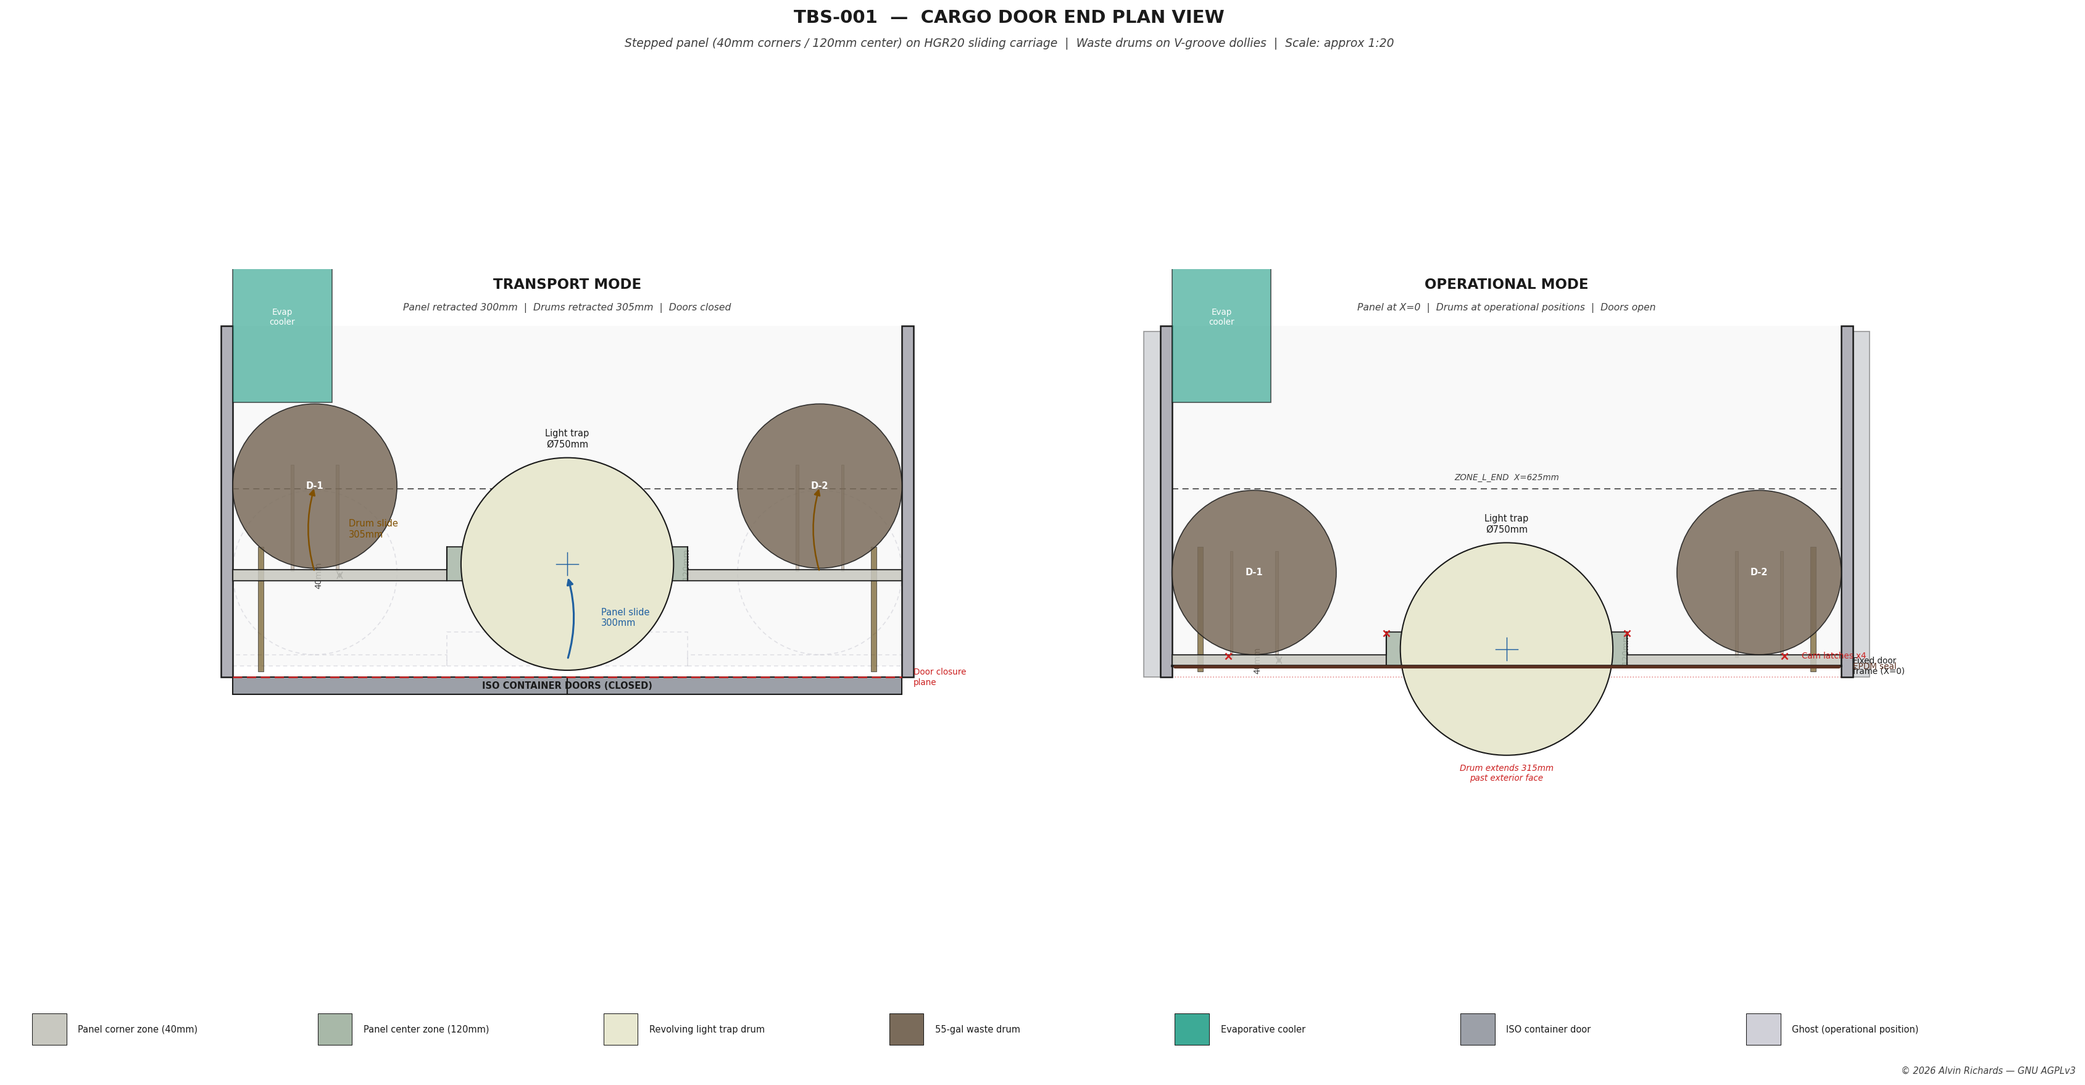
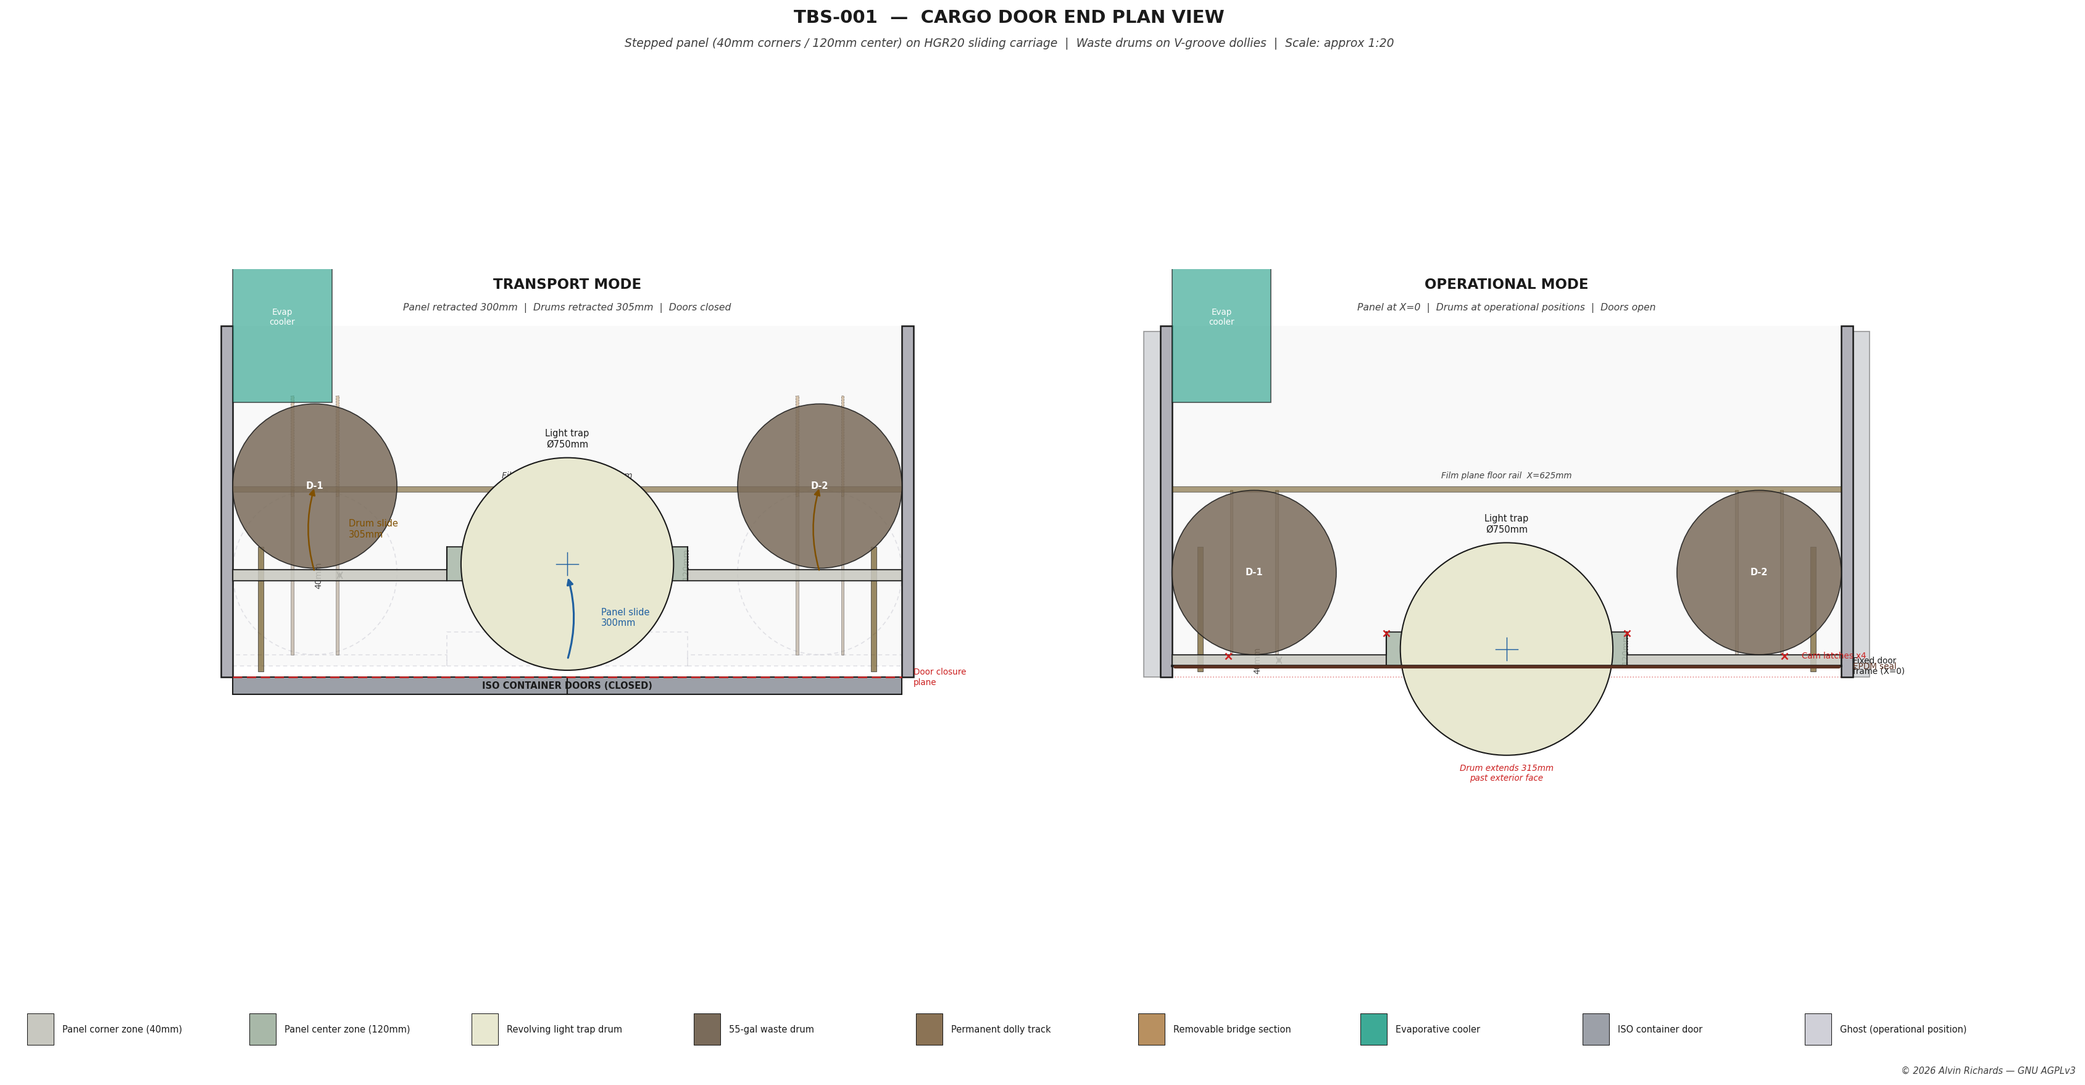
Split dolly tracks into permanent + removable bridge sections
Waste drum dolly tracks now end at X=620mm (5mm inside ZONE_L_END).
Removable bridge sections (355mm, X=600-955mm) span over the film
plane floor rail at X=625mm during mode conversion only. The film
plane carriage must be retracted to Yd<=100mm before bridges are
installed (79mm clearance to nearest dolly track at Yd=210mm).
Four bridge pieces total, drop-in with M8 locating dowel pins.

Updated operating manual procedures (steps 2/6 for packing, 5/7
for setup), equipment layout report, shopping list (+$108 for
bridge tracks/risers/pins), and all affected diagrams. Transport
and operational plan views now show permanent vs bridge track
sections distinctly. Line-of-sight still clear.

diff --git a/generate_assembly_overview.py b/generate_assembly_overview.py
@@ -47,6 +47,7 @@ from tbs_constants import (
     PANEL_CORNER_T, PANEL_CENTER_T,
     PANEL_CORNER_YD_L, PANEL_CORNER_YD_R, PANEL_CENTER_W,
     PANEL_SLIDE, DRUM_SLIDE,
+    PERM_TRACK_END, BRIDGE_TRACK_START, BRIDGE_TRACK_END,
     RAIL_X_L, RAIL_X_R, RAIL_SPAN,
     FAN_A_H, FAN_B_H, FAN_DIAM, DUCT_HEIGHT,
     DIAGRAMS_DIR, SVG_DIR, svg_path,
@@ -915,12 +916,14 @@ def draw_container_walls(ax):
     # Container interior floor area
     ax.add_patch(mpatches.Rectangle((0, 0), C_WID, PLAN_X_MAX,
                  facecolor=C_INTERIOR, edgecolor="none", alpha=0.5, zorder=0))
-    # Zone boundary at ZONE_L_END (X=625)
-    ax.plot([0, C_WID], [ZONE_L_END, ZONE_L_END], color=C_DIM, lw=0.8,
-            ls="--", dashes=(6, 4), zorder=2)
-    ax.text(C_WID / 2, ZONE_L_END + 25, f"ZONE_L_END  X={ZONE_L_END}mm",
+    # Film plane floor rail at X=RAIL_X_L (= ZONE_L_END = 625mm)
+    ax.add_patch(mpatches.Rectangle((0, RAIL_X_L - 10), C_WID, 20,
+                 facecolor=C_RAIL3, edgecolor=C_OUT, linewidth=0.5,
+                 alpha=0.5, zorder=4))
+    ax.text(C_WID / 2, ZONE_L_END + 30,
+            f"Film plane floor rail  X={ZONE_L_END}mm",
             ha="center", va="bottom", fontsize=FS_SM - 1, color=C_DIM,
-            style="italic", zorder=3)
+            style="italic", zorder=5)
 
 
 def draw_stepped_panel(ax, panel_x_outer, alpha=0.85):
@@ -989,15 +992,28 @@ def draw_hgr20_rails(ax):
             alpha=0.6, zorder=4))
 
 
-def draw_vgroove_tracks(ax, drum_x_left):
-    """Draw V-groove roller tracks for waste drums."""
-    track_len = DRUM_SLIDE + 50
+C_BRIDGE  = "#B89060"    # bridge section color (lighter than permanent)
+
+def draw_vgroove_tracks(ax, drum_x_left, show_bridges=False):
+    """Draw V-groove roller tracks for waste drums.
+    Permanent sections: X=PANEL_CORNER_T to PERM_TRACK_END.
+    Bridge sections (removable): X=BRIDGE_TRACK_START to BRIDGE_TRACK_END.
+    """
     for yd_c in [DRUM_EQ_R, C_WID - DRUM_EQ_R]:
         for offset in [-80, 80]:  # two parallel tracks per drum
+            # Permanent section
             ax.add_patch(mpatches.Rectangle(
-                (yd_c + offset - 5, drum_x_left - 10), 10, track_len + 20,
+                (yd_c + offset - 5, PANEL_CORNER_T), 10,
+                PERM_TRACK_END - PANEL_CORNER_T,
                 facecolor=C_TRACK, edgecolor=C_OUT, linewidth=0.4,
                 alpha=0.4, zorder=3))
+            # Bridge section (removable)
+            if show_bridges:
+                ax.add_patch(mpatches.Rectangle(
+                    (yd_c + offset - 5, BRIDGE_TRACK_START), 10,
+                    BRIDGE_TRACK_END - BRIDGE_TRACK_START,
+                    facecolor=C_BRIDGE, edgecolor=C_OUT, linewidth=0.4,
+                    alpha=0.5, zorder=3, linestyle="--"))
 
 
 def draw_container_doors(ax, closed=True):
@@ -1048,7 +1064,7 @@ plan_setup(ax_tr, "TRANSPORT MODE",
 draw_container_walls(ax_tr)
 draw_container_doors(ax_tr, closed=True)
 draw_hgr20_rails(ax_tr)
-draw_vgroove_tracks(ax_tr, TR_DRUM_X)
+draw_vgroove_tracks(ax_tr, TR_DRUM_X, show_bridges=True)
 draw_evap_cooler(ax_tr)
 
 # Ghost: operational positions (dashed outlines)
@@ -1187,6 +1203,8 @@ legend_items3 = [
     (C_PANEL_C,  "Panel center zone (120mm)"),
     (C_DRUM_LT3, "Revolving light trap drum"),
     (C_WASTE,    "55-gal waste drum"),
+    (C_TRACK,    "Permanent dolly track"),
+    (C_BRIDGE,   "Removable bridge section"),
     (C_EVAP,     "Evaporative cooler"),
     (C_CONT_DR,  "ISO container door"),
     (C_GHOST,    "Ghost (operational position)"),

diff --git a/generate_hingepanel_diagram.py b/generate_hingepanel_diagram.py
@@ -972,7 +972,8 @@ def sheet4():
                                PANEL_CORNER_YD_L, PANEL_CORNER_YD_R, PANEL_SLIDE,
                                DRUM_SLIDE, DRUM_EQ_D, DRUM_EQ_R, DRUM_LZ_CX,
                                DRUM_LZ_YD_LO, DRUM_LZ_YD_HI, DRUM_FZ_YD_LO,
-                               DRUM_FZ_YD_HI, ZONE_L_END, WALL_T as C_WALL_T)
+                               DRUM_FZ_YD_HI, ZONE_L_END, WALL_T as C_WALL_T,
+                               PERM_TRACK_END, BRIDGE_TRACK_START, BRIDGE_TRACK_END)
 
     # ── Layout constants ─────────────────────────────────────────────────────
     # Plan view:  horizontal = Yd (container width, 0 → C_WID)
@@ -1149,15 +1150,20 @@ def sheet4():
         ax.plot([yd_pos, yd_pos], [RAIL_X_START, RAIL_X_END],
                 color="#404040", lw=3.0, zorder=3, alpha=0.5)
     # ── V-groove track indicators (paired, per drum) ─────────────────────────
-    TRACK_X_START = OP_DRUM_CX - DRUM_EQ_R - 30
-    TRACK_X_END = TRACK_X_START + SLIDE_D + DRUM_EQ_D + 60
+    # Permanent section and removable bridge section shown separately
     for yd_lo, yd_hi in [(DRUM_LZ_YD_LO, DRUM_LZ_YD_HI),
                           (DRUM_FZ_YD_LO, DRUM_FZ_YD_HI)]:
         yd_c = (yd_lo + yd_hi) / 2
         for yd_off in [-150, 150]:
+            # Permanent track (solid)
             ax.plot([yd_c + yd_off, yd_c + yd_off],
-                    [TRACK_X_START, TRACK_X_END],
+                    [PANEL_CORNER_T, PERM_TRACK_END],
                     color="#2060A0", lw=2.5, zorder=3, alpha=0.35)
+            # Bridge section (dashed)
+            ax.plot([yd_c + yd_off, yd_c + yd_off],
+                    [BRIDGE_TRACK_START, BRIDGE_TRACK_END],
+                    color="#B89060", lw=2.5, zorder=3, alpha=0.45,
+                    ls="--", dashes=(6, 3))
 
     # ── Carriage beam (dashed rectangle, full height at X=0) ─────────────────
     BEAM_W = 60

diff --git a/tbs_constants.py b/tbs_constants.py
@@ -106,6 +106,18 @@ PANEL_SLIDE       = 300   # panel slide travel for transport (mm)
 DRUM_SLIDE        = 305   # waste drum slide travel for transport (mm)
 DRUM_DOLLY_H      = 30    # dolly track riser height (mm) — clears HGR20 floor rail
 
+# Dolly tracks are split into permanent + removable bridge sections.
+# Permanent tracks: X=PANEL_CORNER_T to X=PERM_TRACK_END (within left end zone).
+# Bridge sections: removable, installed only during mode conversion. Span over
+# the film plane floor rail at X=RAIL_X_L with 10mm clearance on 30mm risers.
+# The film plane carriage must be retracted to Yd≤100mm before bridges are
+# installed — clears carriage blocks (nearest dolly track at Yd≈210mm).
+PERM_TRACK_END    = 620   # permanent track right end X (mm) — 5mm inside ZONE_L_END
+BRIDGE_TRACK_START = 600  # bridge section left end X (mm) — 20mm overlap for alignment
+BRIDGE_TRACK_END  = 955   # bridge section right end X (mm) — 30mm past drum transport edge
+BRIDGE_TRACK_LEN  = BRIDGE_TRACK_END - BRIDGE_TRACK_START  # = 355mm
+BRIDGE_COUNT      = 4     # 2 tracks per drum × 2 drums
+
 # ── Left end zone (X = 0–625 mm, shadow-free at all depths) ──────────────────
 DRUM_CX    = 0       # light trap drum center X (mm) [unchanged]
 DRUM_D     = 750     # revolving drum diameter (mm)

diff --git a/light-trap-selection.md b/light-trap-selection.md
@@ -11,7 +11,7 @@
 
 The cargo door end of TBS-001 is sealed by a stepped hinged panel (2,362mm wide × 2,388mm tall, 50×50mm RHS steel frame, 18mm ply skins). The panel has a stepped profile: 40mm thick at the corner zones (Yd=0–756mm and Yd=1,606–2,362mm) and 120mm thick at the center zone (Yd=756–1,606mm) where the revolving light trap drum is permanently mounted. The panel swings 180° outward to clear the full door opening for loading IBC totes and equipment. When closed it is light-sealed at the perimeter by a 20mm EPDM compression gasket against a fixed welded door frame at X=0.
 
-The panel's hinge line mounts to a vertical carriage beam (60×60×3mm SHS) riding on HGR20 linear rails at floor and ceiling level with 300mm of X-direction travel. For transport, the waste drums slide inward 305mm on V-groove roller dollies, then the panel slides inward 300mm — clearing the container doors for closure. Single-person operation, 15–20 minutes per mode conversion. See [Equipment Layout Report](equipment-layout-report.md) §6.2 for full sliding carriage specification.
+The panel's hinge line mounts to a vertical carriage beam (60×60×3mm SHS) riding on HGR20 linear rails at floor and ceiling level with 300mm of X-direction travel. For transport, the waste drums slide inward 305mm on V-groove roller dollies (using removable bridge track sections that span the film plane floor rail), then the panel slides inward 300mm — clearing the container doors for closure. Single-person operation, 15–20 minutes per mode conversion. See [Equipment Layout Report](equipment-layout-report.md) §6.1 for dolly track specification and §6.2 for sliding carriage specification.
 
 Personnel access during operation is via a revolving light trap drum built into the panel. Operators can enter or exit at any time without opening the full panel or admitting daylight.
 
@@ -203,4 +203,4 @@ Custom fabrication saves $1,550–$3,050 over commercial alternatives while prov
 - **Panel latches (×4 Southco C2-33 cam compression latches) are mounted on the interior face of the panel.** This is a deliberate safety design: if the revolving drum jams and prevents normal egress, an operator inside the container can release all four latches independently from the inside and push the panel open outward. The panel swings 180° on its left-edge hinges, clearing all interior equipment. Latches appear as hidden (dashed) features in the exterior elevation drawing (Sheet 1).
 - **Stepped panel construction:** The panel has three thickness zones — 40mm at corners (18mm ply + 4mm steel plate + 18mm ply) and 120mm at center (18mm ply + 84mm RHS frame + 18mm ply). The step transitions occur at Yd=756mm and Yd=1,606mm. The 120mm center zone houses the drum; the 40mm corner zones are flush with the waste drum dolly positions.
 - **Sliding carriage:** The panel's hinge line mounts to a vertical carriage beam (60×60×3mm SHS, 2,400mm tall) riding on HGR20 linear rails at floor and ceiling level. Travel: 300mm in the X direction, locked by Destaco 207-U toggle clamps at both operational and transport positions. A fixed welded door frame (50×50×3mm RHS) at X=0 provides the EPDM seal landing — the sliding mechanism is transparent to the seal.
-- **Transport mode conversion** (single person, 15–20 minutes): release cam latches → swing panel open → slide waste drums inward 305mm → swing panel closed → slide panel inward 300mm → lock → close container doors. See [Equipment Layout Report](equipment-layout-report.md) §6 for full specification.
+- **Transport mode conversion** (single person, 15–20 minutes): retract film plane carriage → install bridge track sections → release cam latches → swing panel open → slide waste drums inward 305mm → remove bridge sections → swing panel closed → slide panel inward 300mm → lock → close container doors. See [Equipment Layout Report](equipment-layout-report.md) §6 for full specification.

diff --git a/operating-manual.md b/operating-manual.md
@@ -343,16 +343,20 @@ If shore charger is connected, leave it running overnight to top up the battery 
 
 The stepped hinged panel rides on a sliding carriage (HGR20 linear rails, 300mm travel). The waste drums sit on V-groove roller dollies (305mm travel). Both must slide inward before the container doors can close.
 
-1. Stow all interior items. Retract film plane carriage to Y=100mm.
-2. Release all 4 Southco cam latches. Swing the panel open 180° outward.
-3. Unlash waste drums (remove 2 ratchet straps per drum).
-4. Slide each drum inward: release spring plunger pin → push dolly 305mm (~11N force) → pin engages transport hole.
-5. Swing panel closed (do not latch).
-6. Release 2 Destaco toggle clamps at operational position.
-7. Push panel inward 300mm on HGR20 rails. Carriage contacts transport end stops.
-8. Engage 2 Destaco toggle clamps at transport position.
-9. Close and latch standard ISO container cargo doors.
-10. Relash drums for transport (ratchet straps to dolly D-rings).
+The dolly tracks are split into two sections: permanent tracks (X=40–620mm, within the left end zone) and removable bridge sections (355mm long) that span over the film plane floor rail at X=625mm. The bridges are installed only during mode conversion — they must be removed before operating the film plane.
+
+1. Stow all interior items. Retract film plane carriage to Yd=100mm. **Confirm carriage is parked** — the bridge sections cannot be installed with the carriage in the drum track zone.
+2. Install 4 bridge track sections (2 per drum): drop each bridge onto the permanent track end, engage the 2 locating dowel pins per bridge. Confirm bridges are seated and level.
+3. Release all 4 Southco cam latches. Swing the panel open 180° outward.
+4. Unlash waste drums (remove 2 ratchet straps per drum).
+5. Slide each drum inward: release spring plunger pin → push dolly 305mm (~11N force) → pin engages transport hole. Drums cross the film plane rail on the bridge sections.
+6. Remove 4 bridge track sections. Stow inside container (e.g. behind IBC column).
+7. Swing panel closed (do not latch).
+8. Release 2 Destaco toggle clamps at operational position.
+9. Push panel inward 300mm on HGR20 rails. Carriage contacts transport end stops.
+10. Engage 2 Destaco toggle clamps at transport position.
+11. Close and latch standard ISO container cargo doors.
+12. Relash drums for transport (ratchet straps to dolly D-rings).
 
 ### 5.6 Operational Mode Conversion (Setting Up)
 
@@ -362,10 +366,12 @@ The stepped hinged panel rides on a sliding carriage (HGR20 linear rails, 300mm 
 2. Release 2 Destaco toggle clamps at transport position.
 3. Pull panel outward 300mm. Engage 2 Destaco toggle clamps at operational position.
 4. Swing panel open 180°.
-5. Unlash waste drums. Slide each drum outward: release pin → push dolly 305mm → pin engages operational hole.
-6. Lash drums in operational position (ratchet straps to dolly D-rings).
-7. Swing panel closed. Engage all 4 Southco cam latches.
-8. Perform dark-adaptation check (Phase 0.3 step 4).
+5. Install 4 bridge track sections (2 per drum): engage locating dowel pins.
+6. Unlash waste drums. Slide each drum outward: release pin → push dolly 305mm → pin engages operational hole.
+7. Remove 4 bridge track sections. Stow inside container.
+8. Lash drums in operational position (ratchet straps to dolly D-rings).
+9. Swing panel closed. Engage all 4 Southco cam latches.
+10. Perform dark-adaptation check (Phase 0.3 step 4).
 
 ---
 

diff --git a/master-shopping-list.md b/master-shopping-list.md
@@ -22,12 +22,12 @@ Items are grouped by build area. Source documents are cross-referenced in each s
 | 5. Print washing — water system | $1,457 | $2,072 |
 | 6. Electrical — power, circuits, wiring | $1,690 | $1,800 |
 | 7. Revolving drum light trap (custom fabrication) | $950 | $1,450 |
-| 7a. Panel sliding carriage & drum dolly system | $1,103 | $1,103 |
+| 7a. Panel sliding carriage & drum dolly system | $1,211 | $1,211 |
 | 8. Cooling & ventilation | $340 | $420 |
 | 9. Printmaking chemistry — cyanotype, 50 prints | $2,500 | $3,200 |
 | 10. Printmaking tools & consumables | $350 | $500 |
 | 11. Safety & PPE | $120 | $180 |
-| **TOTAL (base build + 50-print run)** | **~$14,053** | **~$18,353** |
+| **TOTAL (base build + 50-print run)** | **~$14,161** | **~$18,461** |
 
 *Optional additions: electric film plane actuation (+$827), lens plate (+$400–$1,500), self-haul transport (+$30,000–$40,000).*
 
@@ -331,14 +331,17 @@ Items are grouped by build area. Source documents are cross-referenced in each s
 
 | Item | Spec | Qty | Supplier | Est. cost |
 |------|------|-----|----------|-----------|
-| V-groove track, 28mm × 400mm | Hardened steel, floor-mount | 4 | McMaster-Carr / Amazon Industrial | ~$72 |
+| V-groove track, 28mm × 580mm | Hardened steel, floor-mount (permanent section, X=40–620mm) | 4 | McMaster-Carr / Amazon Industrial | ~$72 |
+| V-groove track, 28mm × 355mm | Hardened steel, removable bridge section (X=600–955mm) — spans over film plane floor rail | 4 | McMaster-Carr / Amazon Industrial | ~$52 |
 | V-groove roller wheels, 50mm OD | Sealed bearings, 250kg/wheel | 8 | McMaster-Carr / Amazon Industrial | ~$96 |
 | Drum dolly plates, 6mm A36 steel | 620×620mm, custom fab | 2 | Metal Supermarkets SoCal / Pacific Coast Steel | ~$80 |
-| Track shim blocks (30mm risers) | Welded steel — clears HGR20 floor rail | 8 | Local fab / Metal Supermarkets | ~$40 |
+| Track shim blocks (30mm risers) | Welded steel, permanent tracks | 8 | Local fab / Metal Supermarkets | ~$40 |
+| Bridge riser blocks (30mm risers) | Welded steel, bridge sections — straddle HGR20 rail | 8 | Local fab / Metal Supermarkets | ~$40 |
+| M8 locating dowel pins | Bridge-to-permanent track alignment, 2 per bridge | 8 | McMaster-Carr | ~$16 |
 | Spring plunger pin locks, M12 | Ball-nose, operational + transport positions | 8 | McMaster-Carr | ~$64 |
 | Lashing D-rings, 25mm | 1,100kg WLL, welded to dolly plate | 4 | McMaster-Carr #3641T29 | ~$24 |
 
-**Drum slide subtotal: ~$376**
+**Drum slide subtotal: ~$484**
 
 ### Panel slide system
 
@@ -369,7 +372,7 @@ Items are grouped by build area. Source documents are cross-referenced in each s
 
 **Door frame subtotal: ~$402**
 
-**Section total (materials): ~$1,103**
+**Section total (materials): ~$1,211**
 **Fabrication labor: ~20–25 hrs × $80–$100/hr = $1,600–$2,500**
 
 ---

diff --git a/equipment-layout-report.md b/equipment-layout-report.md
@@ -198,16 +198,19 @@ drum (4 straps total).
 ### 6.1 Sliding Drum Dollies (Transport Mode)
 
 Each waste drum sits on a steel dolly plate (620×620mm, 6mm A36 steel) riding on
-two parallel V-groove roller tracks. The tracks run in the X direction with 305mm
-of travel. Tracks are raised 30mm on welded steel shims to clear the HGR20 film
-plane floor rail at X=625mm.
+two parallel V-groove roller tracks. The tracks are split into two sections:
 
-| Position | D-1/D-2 X range | Lock mechanism |
-|----------|----------------|----------------|
-| Operational | X=40–620mm | M12 spring plunger pin (ball-nose) |
-| Transport | X=345–925mm | M12 spring plunger pin (ball-nose) |
+- **Permanent tracks** (X=40–620mm): Fixed to the floor on 30mm welded steel risers. Always installed; entirely within the left end zone and do not interact with the film plane system.
+- **Removable bridge sections** (X=600–955mm, 355mm long): Drop-in track pieces that span over the film plane floor rail at X=625mm. Installed only during mode conversion. Each bridge has 2× M8 locating dowel pins that engage the permanent track end riser for alignment. The bridge risers straddle the HGR20 rail with 10mm clearance underneath.
 
-Rolling force: ~11N (2.5 lbf) — single-person push with one hand.
+The film plane carriage must be retracted to Yd≤100mm before installing the bridge sections — this parks the HGH20CA carriage blocks clear of all dolly track positions (nearest track at Yd≈210mm, 79mm gap).
+
+| Position | D-1/D-2 X range | Lock mechanism | Bridge sections |
+|----------|----------------|----------------|----------------|
+| Operational | X=40–620mm | M12 spring plunger pin (ball-nose) | Not installed |
+| Transport | X=345–925mm | M12 spring plunger pin (ball-nose) | Installed during slide, removed after |
+
+Rolling force: ~11N (2.5 lbf) — single-person push with one hand. Four bridge sections total (~2kg each), stowed behind IBC column when not in use.
 
 ### 6.2 Stepped Panel and Sliding Carriage (Transport Mode)
 
